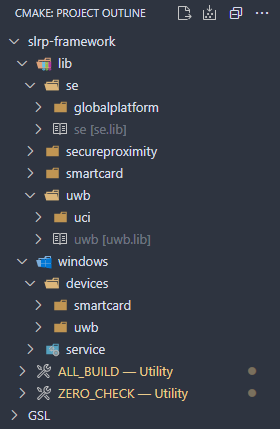
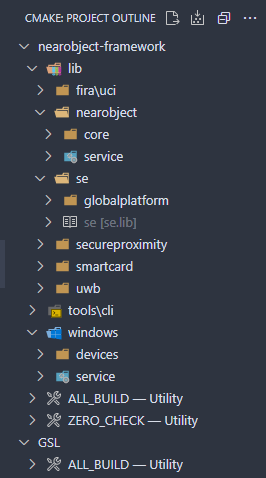
Rename to near object framework.

diff --git a/README.md b/README.md
@@ -1,6 +1,6 @@
-# Secure Location, Ranging, and Proximity (SLRP) Device Framework
+# Near Object (NO) Framework
 
-This project is a framework for interacting with devices which provide secure location, ranging, and proximity services. There is a particular focus on [IEEE 802.15.4z-2020](https://standards.ieee.org/ieee/802.15.4z/10230/) Ultra-Wideband (UWB) devices using the [Fine Ranging Consortium (FiRa)](https://www.firaconsortium.org/), however, the framework is not limited to this.
+This project is a framework for interacting with short-range devices, providing secure location, ranging, radar, or proximity services. There is a particular focus on [IEEE 802.15.4z-2020](https://standards.ieee.org/ieee/802.15.4z/10230/) Ultra-Wideband (UWB) devices using the [Fine Ranging Consortium (FiRa)](https://www.firaconsortium.org/), however, the framework is not limited to this.
 
 ## Project Structure
 
@@ -30,10 +30,9 @@ A C++ compiler supporting C++17 is needed. On Windows, [Visual Studio 2022](http
 To bootstrap the build environment, instruct CMake to generate the build files. It is strongly recommended to do this in a directory that is separate from the source; this allows one to easily destroy and recreate the build environment without affecting the checked-out source and changes in progress. Typically, a new directory called `build` at the top-level project tree is used for this purpose:
 
 ```Shell
-git clone git@github.com:abeltrano/slrp-framework.git
-cd slrp-framework
-mkdir build
-cd build
+git clone git@github.com:abeltrano/nearobject-framework.git
+cd nearobject-framework
+mkdir build && cd $_ 
 cmake ..
 cmake --build .
 ```
